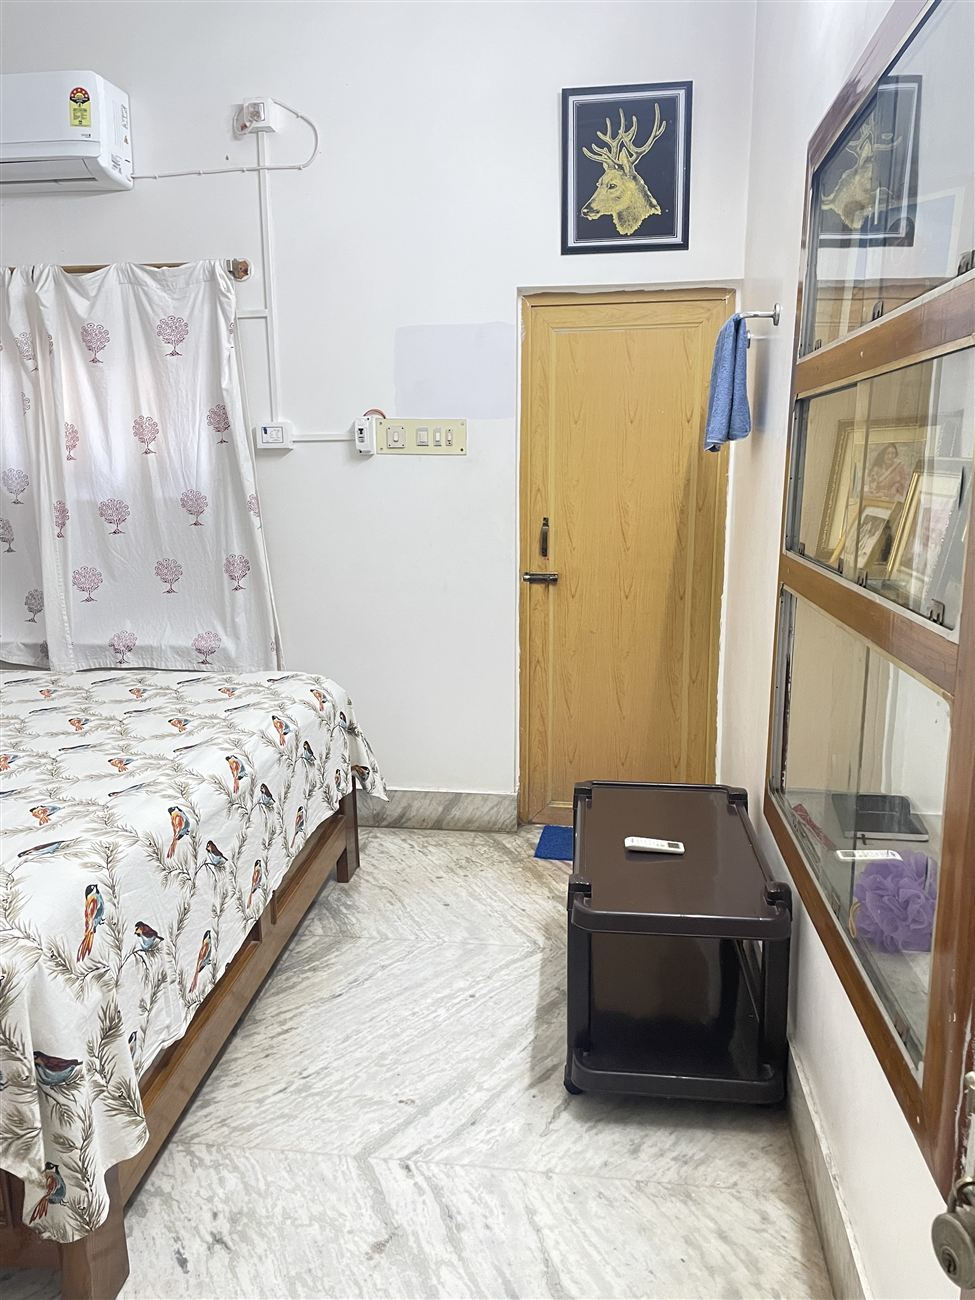
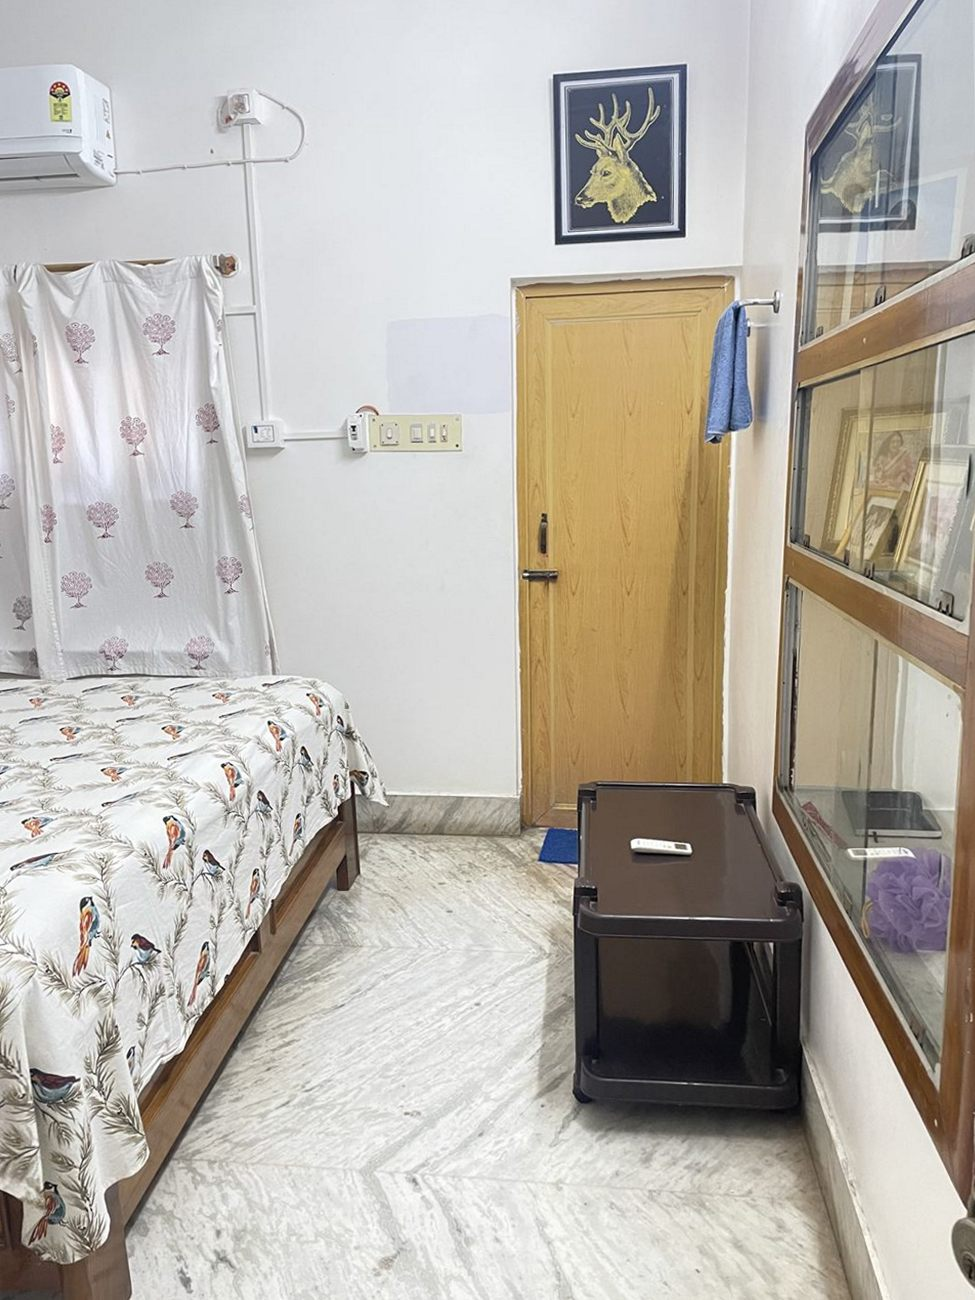
Soften the photo borders and straighten the crooked shots
Borders were 1px solid ink, which cut the phone photographs out of the
paper rather than sitting them on it. Now a hairline in faint, which
still holds the edge without the hard outline.

Straightened seven photographs by one to one and a half degrees, then
re-cropped to the same frame. Angles were judged against a vertical
reference grid, reading the centre of each frame rather than the
edges, where the wide lens bends verticals on its own and would have
led to over-rotating. The rest were already true and were left alone.

diff --git a/index.html b/index.html
@@ -69,7 +69,7 @@
 
   /* plates */
   .plate{margin:clamp(1.8rem,4vw,2.6rem) var(--pad) 0}
-  .plate img{width:100%; border:1px solid var(--ink); filter:saturate(.93) sepia(.05)}
+  .plate img{width:100%; border:1px solid var(--faint); filter:saturate(.93) sepia(.05)}
   .plate figcaption{font-style:italic; color:var(--soft); font-size:.86rem; margin-top:.55rem; text-align:center}
   .plate--tall img{max-height:min(76vh,40rem); object-fit:cover; object-position:52% 42%}
   .plate--wide{margin:clamp(1.8rem,4vw,2.6rem) 0 0}
@@ -155,7 +155,7 @@
      both of which divide by three — four columns strands a lone photo */
   @media(min-width:760px){ .gal{grid-template-columns:repeat(3,1fr)} }
   .gal figure{margin:0}
-  .gal button{display:block; width:100%; padding:0; line-height:0; border:1px solid var(--ink); background:none; cursor:zoom-in; overflow:hidden}
+  .gal button{display:block; width:100%; padding:0; line-height:0; border:1px solid var(--faint); background:none; cursor:zoom-in; overflow:hidden}
   .gal img{width:100%; aspect-ratio:4/5; object-fit:cover; filter:saturate(.93) sepia(.05); transition:transform .6s cubic-bezier(.2,.7,.2,1)}
   .gal button:hover img{transform:scale(1.03)}
   .gal figcaption{font-style:italic; color:var(--soft); font-size:.8rem; margin-top:.45rem; line-height:1.45}
